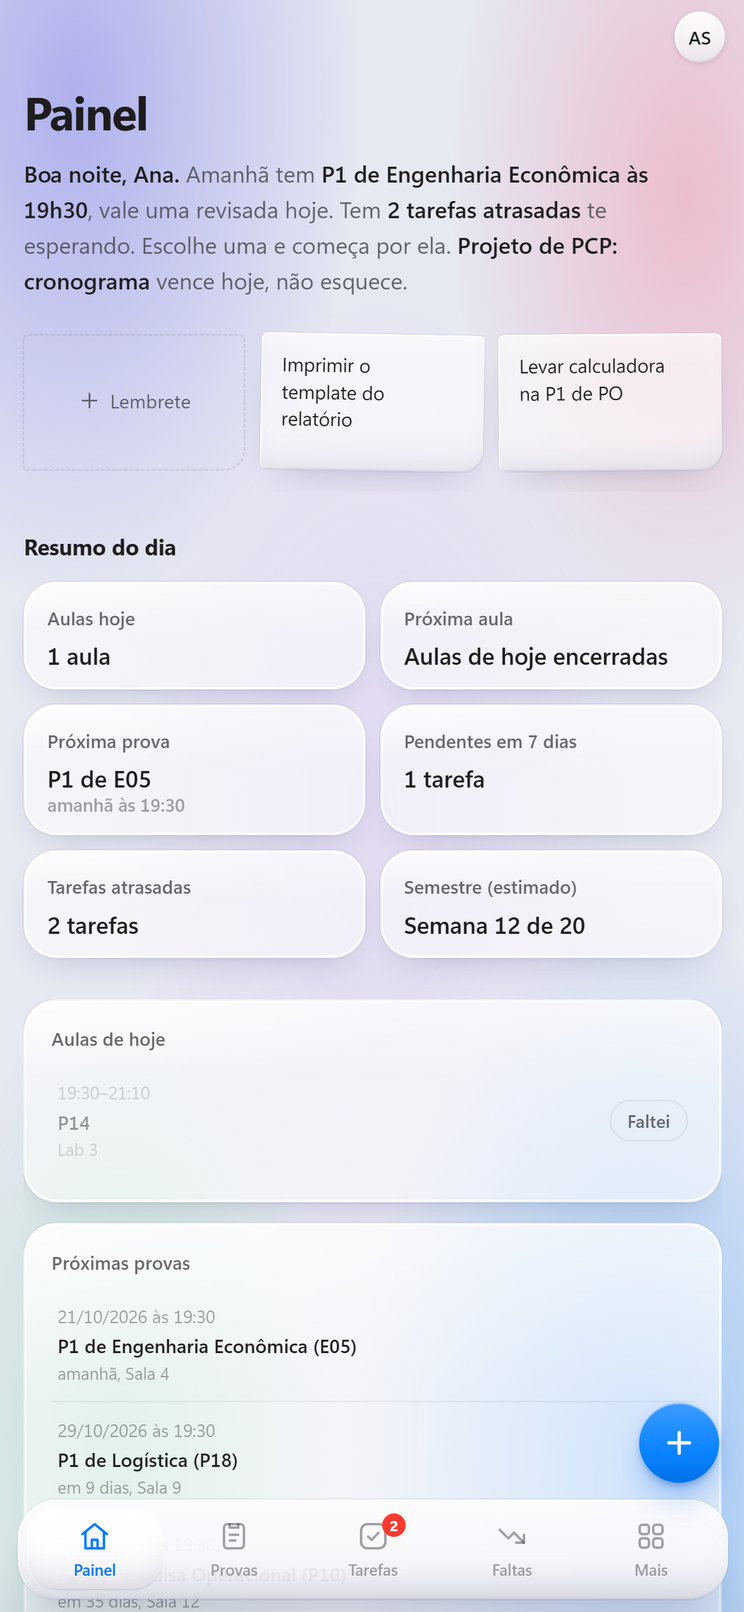
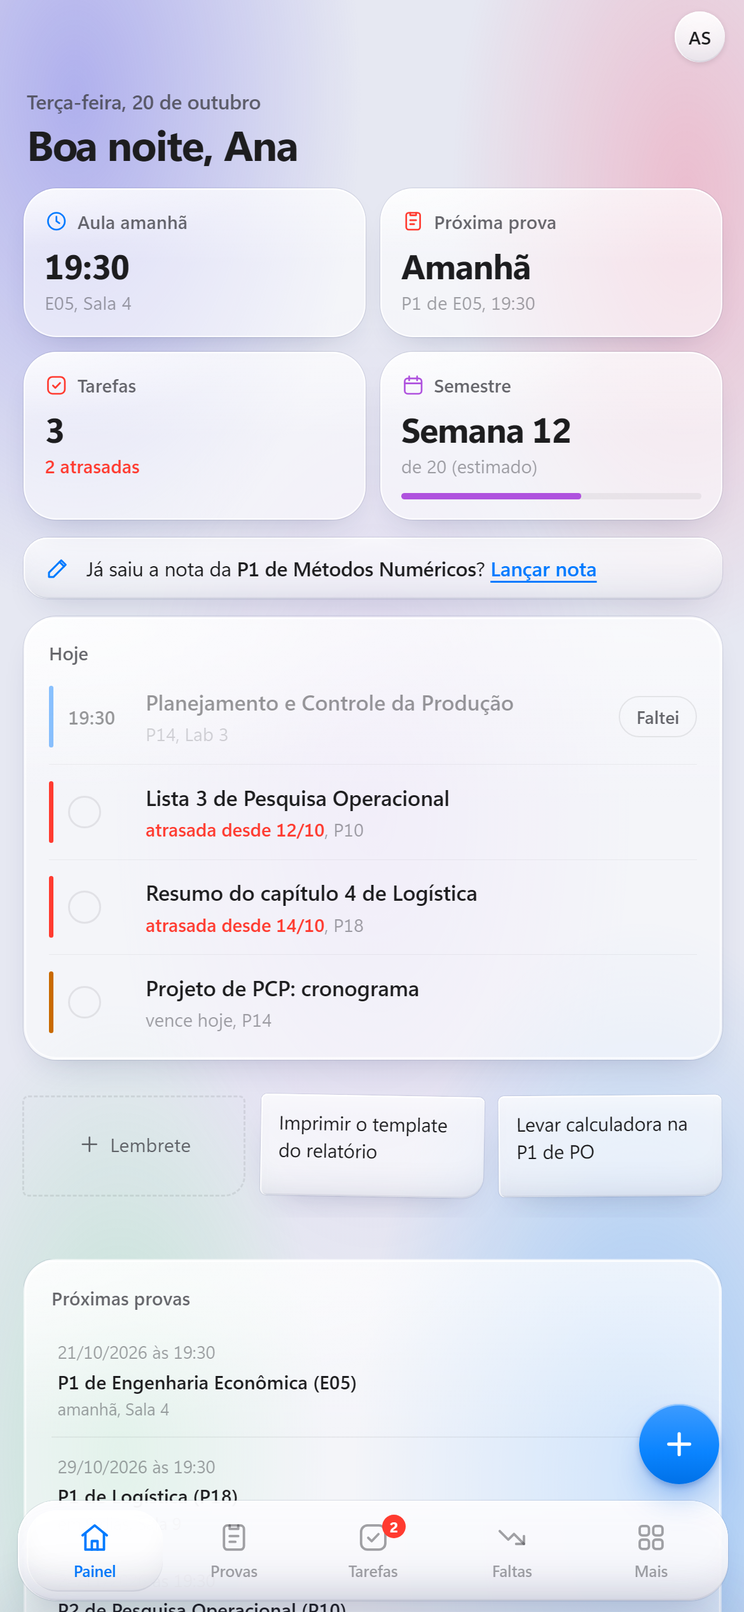
Phone dashboard: everything that matters on the first screen
On phones the dashboard now opens with the date and a greeting, four
shortcut tiles (next class, next exam, tasks, week of the semester), the
alerts, and a single Hoje list with today's classes (with Faltei),
exams and overdue or due-today tasks. The desktop dashboard is unchanged.

diff --git a/index.html b/index.html
@@ -1746,6 +1746,7 @@
   .day-overview b{color:var(--text); font-weight:600;}
   .day-overview__hi{color:var(--text); font-weight:600;}
   .day-overview__nota{display:block; margin-top:8px;}
+  .pc{display:none;}
   /* notificações: estado no topo, "quando" em cartões, atalho da agenda */
   .notif-top{display:flex; align-items:center; gap:14px; flex-wrap:wrap;}
   .notif-top__ic{width:42px; height:42px; border-radius:12px; display:grid; place-items:center; flex-shrink:0; color:var(--c); background:var(--c-dim);}
@@ -2551,6 +2552,53 @@
     .stat__value{font-size:26px;}
     .stat__value.small{font-size:16px;}
 
+    /* painel do celular: a data e o "oi", quatro atalhos, os avisos e o dia de hoje logo na primeira tela */
+    #tab-painel .painel-top .screen__header, #dayOverview, #tab-painel .so-desk{display:none !important;}
+    .pc{display:flex; flex-direction:column; gap:12px;}
+    .pc-head{display:flex; flex-direction:column; gap:2px; padding:0 2px 2px;}
+    .pc-data{font-size:13.5px; font-weight:500; color:var(--text-dim);}
+    .pc-oi{margin:0; font-size:28px; font-weight:700; letter-spacing:-.025em; line-height:1.15; color:var(--text); text-wrap:balance;}
+    .pc-ws{display:grid; grid-template-columns:repeat(2, minmax(0, 1fr)); gap:10px;}
+    .pc .pc-w{display:flex; flex-direction:column; align-items:flex-start; min-width:0; margin:0; padding:13px 14px 14px !important;
+      border:none; font:inherit; color:var(--text); text-align:left; cursor:pointer;}
+    .pc div.pc-w{cursor:default;}
+    .pc button.pc-w:active{transform:scale(.97);}
+    .pc-w__top{display:flex; align-items:center; gap:6px; max-width:100%; margin-bottom:7px; font-size:12.5px; font-weight:500; color:var(--text-dim);}
+    .pc-w__top .i{width:16px; height:16px; flex-shrink:0; color:var(--accent);}
+    .pc-w__top span, .pc-w__v, .pc-w__s{max-width:100%; white-space:nowrap; overflow:hidden; text-overflow:ellipsis;}
+    .pc-w__v{font-size:23px; font-weight:650; letter-spacing:-.02em; line-height:1.15; font-variant-numeric:tabular-nums;}
+    .pc-w__txt{display:block; font-size:16px; line-height:1.3; white-space:normal;}
+    .pc-w__s{margin-top:2px; font-size:12.5px; color:var(--text-faint);}
+    .pc-w__bar{display:block; width:100%; height:4px; margin-top:9px; border-radius:2px; background:var(--line-soft); overflow:hidden;}
+    .pc-w__bar > span{display:block; height:100%; border-radius:2px; background:var(--accent);}
+    .pc-alerta{color:var(--red); font-weight:600;}
+    .pc-avisos{display:flex; flex-direction:column; gap:8px;}
+    .pc-avisos:empty{display:none;}
+    .pc-aviso{display:flex; align-items:center; gap:10px; width:100%; margin:0; padding:11px 14px; border:none; border-radius:16px;
+      background:var(--lg-fill); box-shadow:var(--lg-drop), var(--lg-inner); font:inherit; font-size:13.5px; line-height:1.4; color:var(--text); text-align:left;}
+    button.pc-aviso{cursor:pointer;}
+    button.pc-aviso:active{transform:scale(.98);}
+    .pc-aviso > .i{width:18px; height:18px; flex-shrink:0; color:var(--accent);}
+    .pc-aviso > span{flex:1; min-width:0;}
+    .pc-aviso b{font-weight:600;}
+    .pc-hoje{padding:14px 16px 6px !important;}
+    .pc-hoje > .stat__label{margin-bottom:2px;}
+    .pc-item{display:flex; align-items:center; gap:10px; padding:11px 0; border-bottom:.5px solid var(--line-soft);}
+    .pc-item:last-child{border-bottom:none;}
+    .pc-item__bar{align-self:stretch; flex:0 0 3px; border-radius:2px; background:var(--accent);}
+    .pc-item__hora{flex:0 0 42px; display:flex; align-items:center; font-size:13px; font-weight:600; color:var(--text); font-variant-numeric:tabular-nums;}
+    .pc-item__hora .i{width:18px; height:18px; color:var(--accent);}
+    .pc-item__info{flex:1; min-width:0; display:flex; flex-direction:column; gap:1px;}
+    .pc-item__info .t{font-size:14.5px; font-weight:600; color:var(--text); white-space:nowrap; overflow:hidden; text-overflow:ellipsis;}
+    .pc-item__info .s{font-size:12.5px; color:var(--text-faint); white-space:nowrap; overflow:hidden; text-overflow:ellipsis;}
+    .pc-item.is-past .pc-item__bar, .pc-item.is-past .pc-item__hora, .pc-item.is-past .pc-item__info{opacity:.45;}
+    .pc-check{display:block; width:22px; height:22px; border-radius:50%; border:1.5px solid var(--line); cursor:pointer;}
+    .pc-check:active{background:var(--green-dim); border-color:var(--green);}
+    .pc-mais{display:block; margin:2px 0 10px 55px; font-size:13px;}
+    .pc-vazio{padding:10px 0 12px; font-size:13.5px; color:var(--text-faint);}
+    /* lembretes: mais baixos, logo abaixo do dia de hoje */
+    .postits .postit{min-height:68px; padding:10px 12px 12px;}
+
     /* calendário de provas: número no meio, sem caixa; feriado, evento e prova viram pontos */
     .cal-grid{gap:2px 0;}
     .cal-dow{font-size:10.5px; letter-spacing:.04em; padding:0 0 6px;}
@@ -2848,6 +2896,19 @@
 
     <!-- PAINEL -->
     <section class="tab active" id="tab-painel">
+      <!-- celular: a data, quatro atalhos, os avisos e o dia de hoje (no computador, o painel de sempre) -->
+      <div class="pc" id="painelCel">
+        <div class="pc-head">
+          <div class="pc-data" id="pcData"></div>
+          <h2 class="pc-oi" id="pcOi">Painel</h2>
+        </div>
+        <div class="pc-ws" id="pcWidgets"></div>
+        <div class="pc-avisos" id="pcAvisos"></div>
+        <div class="panel panel--pad pc-hoje" style="--accent:var(--blue)">
+          <div class="stat__label">Hoje</div>
+          <div id="pcHoje"></div>
+        </div>
+      </div>
       <div class="painel-top">
         <div class="painel-top__main">
           <div class="screen__header">
@@ -2859,11 +2920,11 @@
         <div class="postits" id="lembretesList" aria-label="Lembretes"></div>
       </div>
 
-      <div class="section-label">Resumo do dia</div>
-      <div class="stat-grid" id="resumoStats"></div>
+      <div class="section-label so-desk">Resumo do dia</div>
+      <div class="stat-grid so-desk" id="resumoStats"></div>
 
       <div class="grid-3" style="margin-top:28px;">
-        <div class="panel panel--pad" style="--accent:var(--blue)">
+        <div class="panel panel--pad so-desk" style="--accent:var(--blue)">
           <div class="stat__label" style="margin-bottom:8px;">Aulas de hoje</div>
           <div class="row-list" id="aulasHojeList"></div>
         </div>
@@ -4599,9 +4660,7 @@ function renderPainel(){
     // "Faltei": registra a falta da aula na disciplina, um toque de novo desfaz
     const sigla = aulaSigla(a);
     const reg = sigla ? faltaDaAula(hojeIso, a.inicio, sigla) : null;
-    const chip = !sigla ? '' : `<button type="button" class="falta-chip${reg ? ' is-on' : ''}" data-faltei="${esc(a.inicio)}|${esc(sigla)}|${esc(a.fim || '')}"
-      aria-pressed="${!!reg}" aria-label="${reg ? `Falta registrada em ${esc(sigla)}, toque para desfazer` : `Registrar falta em ${esc(sigla)}`}"
-      title="${reg ? `${reg.n === 1 ? '1 falta registrada' : reg.n + ' faltas registradas'}. Toque para desfazer` : `Registrar falta em ${esc(sigla)}`}">${reg ? 'Faltou' : 'Faltei'}</button>`;
+    const chip = sigla ? chipFaltei(a, sigla, reg) : '';
     return `<div class="row-item ${state}">
       <div class="time mono">${esc(a.inicio)}–${esc(a.fim)}</div>
       <div class="info"><div class="t">${esc(a.disciplina)}</div><div class="s">${esc(a.local)}</div></div>
@@ -4664,6 +4723,7 @@ function renderPainel(){
       <span class="badge badge-${stCls}">${esc(t.status)}</span>
     </div>`;
   }).join('') : `<div class="empty" style="padding:14px;">Nenhuma tarefa pendente</div>`;
+  renderPainelCel(aulasHoje, semAulaHoje, discReprovando);
 
   document.querySelectorAll('[data-dash-done]').forEach(el => {
     const fn = async (e) => {
@@ -4782,42 +4842,156 @@ function renderDayOverview(){
     frases.push(`O <b>${esc(r.nome)}</b> do laboratório entrega ${d === 0 ? 'hoje' : d === 1 ? 'amanhã' : 'depois de amanhã'}.`);
   }
 
-  // calendário acadêmico: sem aula amanhã (quando teria aula) e a próxima data do semestre
-  const amanhaD = calSoma(now, 1), temAulaNoDia = dia => getAulas().some(a => a.dia === dia && a.inicio && a.inicio !== '—');
-  const semAulaAmanha = calSemAula(localISO(amanhaD));
-  if(semAulaAmanha && temAulaNoDia(DAY_NAMES[amanhaD.getDay()])) frases.push(`Amanhã não tem aula: <b>${esc(semAulaAmanha)}</b>.`);
-  // (feriado nacional e dia sem aula de um dia só já entram em "amanhã não tem aula")
-  const ev = calProximos(7).find(e => !e.nacional && (e.tipo !== 'feriado' || (e.ate && e.ate !== e.de)));
-  if(ev){
-    const d = daysUntil(ev.de), fimEv = ev.ate && ev.ate !== ev.de ? ev.ate : '';
-    frases.push(d > 0 ? (fimEv ? `<b>${esc(ev.nome)}</b> começa ${diasLabel(d)}.` : d === 1 ? `Amanhã: <b>${esc(ev.nome)}</b>.` : `<b>${esc(ev.nome)}</b> ${diasLabel(d)}.`)
-      : fimEv && daysUntil(fimEv) > 0 ? `<b>${esc(ev.nome)}</b>: até ${fmtCurta(fimEv)}.`
-      : fimEv ? `<b>${esc(ev.nome)}</b>: hoje é o último dia.` : `Hoje: <b>${esc(ev.nome)}</b>.`);
-  }
+  frases.push(...calAvisos(now));
   if(!frases.length){
     const prox = upcomingProvas().find(p => daysUntil(p.data) > 1);
     frases.push(prox && daysUntil(prox.data) <= 7
       ? `Nada urgente por hoje. A próxima prova é <b>${prova(prox)}</b> ${diasLabel(daysUntil(prox.data))}, dá tempo de se organizar com calma.`
       : 'Nenhuma prova ou prazo à vista hoje. Aproveite o dia.');
   }
-  // nota que já deve ter saído (prova de 3 a 21 dias atrás): vem por último, sem tirar lugar dos prazos
-  const pNota = provasSemNota().find(p => daysUntil(p.data) <= -3 && daysUntil(p.data) >= -21);
-  // provas acabaram: primeiro pede as notas que faltam; com elas lançadas, sugere encerrar o semestre
-  const nudge = pNota && frases.length < 3 ? `<span class="day-overview__nota">Já saiu a nota da <b>${esc(pNota.tipo)} de ${esc(disc(pNota))}</b>? <button type="button" class="link-btn" data-lancar-nota="${esc(pNota.id)}">Lançar nota</button></span>`
-    : !pNota && semestreParaEncerrar() ? `<span class="day-overview__nota">Parece que o semestre acabou. <button type="button" class="link-btn" data-encerrar-sem>Encerrar semestre</button> <span class="dim">ou</span> <button type="button" class="link-btn" data-sem-depois>agora não</button></span>`
-    : '';
-  el.innerHTML = `<span class="day-overview__hi">${saud}${nome ? ', ' + esc(nome) : ''}.</span> ${frases.slice(0,3).join(' ')}${nudge}`;
+  // a nota que já deve ter saído vem por último, sem tirar lugar dos prazos
+  const nudge = painelNudge(frases.length < 3);
+  el.innerHTML = `<span class="day-overview__hi">${saud}${nome ? ', ' + esc(nome) : ''}.</span> ${frases.slice(0,3).join(' ')}${nudge ? `<span class="day-overview__nota">${nudge.html}</span>` : ''}`;
 }
-document.getElementById('dayOverview').addEventListener('click', e => {
+// calendário acadêmico: sem aula amanhã (quando teria aula) e a próxima data do semestre, em frases
+function calAvisos(now){
+  const out = [];
+  const amanhaD = calSoma(now, 1), temAulaNoDia = dia => getAulas().some(a => a.dia === dia && a.inicio && a.inicio !== '—');
+  const semAulaAmanha = calSemAula(localISO(amanhaD));
+  if(semAulaAmanha && temAulaNoDia(DAY_NAMES[amanhaD.getDay()])) out.push(`Amanhã não tem aula: <b>${esc(semAulaAmanha)}</b>.`);
+  // (feriado nacional e dia sem aula de um dia só já entram em "amanhã não tem aula")
+  const ev = calProximos(7).find(e => !e.nacional && (e.tipo !== 'feriado' || (e.ate && e.ate !== e.de)));
+  if(ev){
+    const d = daysUntil(ev.de), fimEv = ev.ate && ev.ate !== ev.de ? ev.ate : '';
+    out.push(d > 0 ? (fimEv ? `<b>${esc(ev.nome)}</b> começa ${diasLabel(d)}.` : d === 1 ? `Amanhã: <b>${esc(ev.nome)}</b>.` : `<b>${esc(ev.nome)}</b> ${diasLabel(d)}.`)
+      : fimEv && daysUntil(fimEv) > 0 ? `<b>${esc(ev.nome)}</b>: até ${fmtCurta(fimEv)}.`
+      : fimEv ? `<b>${esc(ev.nome)}</b>: hoje é o último dia.` : `Hoje: <b>${esc(ev.nome)}</b>.`);
+  }
+  return out;
+}
+// provas acabaram: primeiro pede a nota que já deve ter saído (prova de 3 a 21 dias atrás); com as notas
+// lançadas, sugere encerrar o semestre. comNota = false: há frases demais e o pedido de nota fica para depois
+function painelNudge(comNota){
+  const disc = p => String(p.disciplina || '').replace(/\s*\([^)]*\)\s*$/, '');
+  const pNota = provasSemNota().find(p => daysUntil(p.data) <= -3 && daysUntil(p.data) >= -21);
+  if(pNota) return comNota ? {icone: 'edit', html: `Já saiu a nota da <b>${esc(pNota.tipo)} de ${esc(disc(pNota))}</b>? <button type="button" class="link-btn" data-lancar-nota="${esc(pNota.id)}">Lançar nota</button>`} : null;
+  if(semestreParaEncerrar()) return {icone: 'cap', html: `Parece que o semestre acabou. <button type="button" class="link-btn" data-encerrar-sem>Encerrar semestre</button> <span class="dim">ou</span> <button type="button" class="link-btn" data-sem-depois>agora não</button>`};
+  return null;
+}
+function painelAcoes(e){
   const b = e.target.closest('[data-lancar-nota]');
   if(b) abrirLancarNota(b.dataset.lancarNota);
   if(e.target.closest('[data-encerrar-sem]')) abrirFimSemestre();
   // "agora não": o aviso volta em duas semanas
   if(e.target.closest('[data-sem-depois]')){
     lsSet('notif_last_sem_' + (ACTIVE_PROFILE_ID || 'default'), localISO(new Date(Date.now() + 14 * 86400000)));
-    renderDayOverview();
+    renderPainel();
   }
+}
+document.getElementById('dayOverview').addEventListener('click', painelAcoes);
+document.getElementById('pcAvisos').addEventListener('click', painelAcoes);
+// atalhos do painel do celular: cada um abre a sua aba
+document.getElementById('painelCel').addEventListener('click', e => {
+  const ir = e.target.closest('[data-ir]');
+  if(ir) switchTab(ir.dataset.ir);
 });
+
+// ---------------- Painel no celular ----------------
+// a próxima aula: a de agora, a de mais tarde ou a dos próximos dias (pulando os dias sem aula)
+function proximaAula(){
+  const aulas = getAulas().filter(a => a.dia && a.inicio && a.inicio !== '—');
+  if(!aulas.length) return null;
+  const agora = new Date(), hm = nowHHMM(), per = calPeriodo();
+  for(let i = 0; i < 8; i++){
+    const d = calSoma(agora, i), iso = localISO(d), dia = DAY_NAMES[d.getDay()];
+    if(calSemAula(iso) || (!per.estimado && (iso < per.inicio || iso > per.fim))) continue;
+    const a = aulas.filter(x => x.dia === dia && (i > 0 || (x.fim || x.inicio) > hm)).sort((x, y) => x.inicio.localeCompare(y.inicio))[0];
+    if(a) return {a, dias: i, dia, agora: i === 0 && a.inicio <= hm};
+  }
+  return null;
+}
+// botão "Faltei" de uma aula de hoje: registra a falta na disciplina, um toque de novo desfaz
+function chipFaltei(a, sigla, reg){
+  return `<button type="button" class="falta-chip${reg ? ' is-on' : ''}" data-faltei="${esc(a.inicio)}|${esc(sigla)}|${esc(a.fim || '')}"
+      aria-pressed="${!!reg}" aria-label="${reg ? `Falta registrada em ${esc(sigla)}, toque para desfazer` : `Registrar falta em ${esc(sigla)}`}"
+      title="${reg ? `${reg.n === 1 ? '1 falta registrada' : reg.n + ' faltas registradas'}. Toque para desfazer` : `Registrar falta em ${esc(sigla)}`}">${reg ? 'Faltou' : 'Faltei'}</button>`;
+}
+function renderPainelCel(aulasHoje, semAulaHoje, discReprovando){
+  if(!document.getElementById('painelCel')) return;
+  const now = new Date(), h = now.getHours(), hm = nowHHMM(), hojeIso = localISO(now);
+  const nome = String(STATE.config.aluno || '').trim().split(/\s+/)[0];
+  const data = now.toLocaleDateString('pt-BR', {weekday: 'long', day: 'numeric', month: 'long'});
+  document.getElementById('pcData').textContent = data.charAt(0).toUpperCase() + data.slice(1);
+  document.getElementById('pcOi').textContent = (h < 5 ? 'Boa noite' : h < 12 ? 'Bom dia' : h < 18 ? 'Boa tarde' : 'Boa noite') + (nome ? ', ' + nome : '');
+  const nomeDisc = s => s && (STATE.historico.find(i => i.sigla === s) || {}).disciplina;
+  const local = x => x.local && x.local !== '—' ? x.local : '';
+  const junta = (...xs) => xs.filter(Boolean).join(', ');
+
+  // os quatro atalhos (o do semestre só mostra)
+  const w = (aba, cor, icone, rotulo, valor, sub, extra = '') => {
+    const tag = aba ? 'button' : 'div';
+    return `<${tag}${aba ? ` type="button" data-ir="${aba}"` : ''} class="panel stat pc-w" style="--accent:var(--${cor})">
+      <span class="pc-w__top">${ico(icone)}<span>${rotulo}</span></span>
+      <span class="pc-w__v">${valor}</span>${sub ? `<span class="pc-w__s">${sub}</span>` : ''}${extra}</${tag}>`;
+  };
+  const pa = proximaAula(), temHorario = getAulas().some(a => a.inicio && a.inicio !== '—');
+  const naDia = d => (d === 'Sábado' || d === 'Domingo' ? 'no ' : 'na ') + d.toLowerCase();
+  const wAula = !pa ? w('horario', 'blue', 'clock', 'Próxima aula', temHorario ? 'Nenhuma' : 'Sem horário', temHorario ? 'nos próximos dias' : 'toque para montar')
+    : pa.agora ? w('horario', 'blue', 'clock', 'Aula agora', esc(pa.a.disciplina), esc(junta(pa.a.fim && 'até ' + pa.a.fim, local(pa.a))))
+    : w('horario', 'blue', 'clock', pa.dias === 0 ? 'Próxima aula' : pa.dias === 1 ? 'Aula amanhã' : 'Aula ' + naDia(pa.dia), esc(pa.a.inicio), esc(junta(pa.a.disciplina, local(pa.a))));
+  const pp = upcomingProvas(1)[0], nP = pp ? daysUntil(pp.data) : 0;
+  const sig = d => (String(d || '').match(/\(([^)]+)\)\s*$/) || [])[1] || d;
+  const wProva = !pp ? w('provas', 'blue', 'exam', 'Próxima prova', 'Nenhuma', 'marcada')
+    : w('provas', nP <= 1 ? 'red' : 'blue', 'exam', 'Próxima prova', nP === 0 ? 'Hoje' : nP === 1 ? 'Amanhã' : `${nP} dias`, esc(junta(`${pp.tipo} de ${sig(pp.disciplina)}`, pp.hora)));
+  const abertas = STATE.tarefas.filter(t => t.status !== 'Concluído' && t.prazo);
+  const atras = abertas.filter(t => daysUntil(t.prazo) < 0).length, deHoje = abertas.filter(t => daysUntil(t.prazo) === 0).length;
+  const semana = abertas.filter(t => daysUntil(t.prazo) >= 0 && daysUntil(t.prazo) <= 7).length;
+  const wTarefas = w('tarefas', atras ? 'red' : semana ? 'amber' : 'green', 'check', 'Tarefas', atras + semana ? String(atras + semana) : 'Em dia',
+    atras ? `<span class="pc-alerta">${atras} ${atras === 1 ? 'atrasada' : 'atrasadas'}</span>` : deHoje ? `${deHoje} para hoje` : semana ? 'para esta semana' : 'nada para esta semana');
+  const pr = calProgresso();
+  const wSem = pr.semana
+    ? w('', 'purple', 'calendar', 'Semestre', `Semana ${pr.semana}`, `de ${pr.total}${calPeriodo().estimado ? ' (estimado)' : ''}`,
+      `<span class="pc-w__bar"><span style="width:${Math.round(pr.semana / pr.total * 100)}%"></span></span>`)
+    : w('', 'purple', 'calendar', 'Semestre', `<span class="pc-w__txt">${esc(pr.txt)}</span>`, '');
+  document.getElementById('pcWidgets').innerHTML = wAula + wProva + wTarefas + wSem;
+
+  // avisos: faltas e notas em risco, o calendário dos próximos dias e o pedido de nota (ou de encerrar o semestre)
+  const avisos = [];
+  const aviso = (aba, cor, icone, html) => avisos.push(`<${aba ? `button type="button" data-ir="${aba}"` : 'div'} class="pc-aviso" style="--accent:var(--${cor})">${ico(icone)}<span>${html}</span></${aba ? 'button' : 'div'}>`);
+  const risco = countDisciplinasEmRisco();
+  if(risco) aviso('faltas', 'red', 'alert', `${risco} ${risco === 1 ? 'disciplina perto' : 'disciplinas perto'} do limite de faltas`);
+  if(discReprovando) aviso('desempenho', 'red', 'alert', `Reprovando em notas: ${discReprovando} ${discReprovando === 1 ? 'disciplina' : 'disciplinas'}`);
+  calAvisos(now).forEach(f => aviso('', 'purple', 'calendar', f));
+  const nudge = painelNudge(true);
+  if(nudge) aviso('', 'blue', nudge.icone, nudge.html);
+  document.getElementById('pcAvisos').innerHTML = avisos.join('');
+
+  // hoje: provas e aulas pela hora, depois as tarefas atrasadas ou de hoje e os relatórios que entregam hoje
+  const item = (cor, hora, t, s, fim = '', cls = '') => `<div class="pc-item${cls}" style="--accent:var(--${cor})"><span class="pc-item__bar"></span><span class="pc-item__hora">${hora}</span>
+      <span class="pc-item__info"><span class="t">${t}</span>${s ? `<span class="s">${s}</span>` : ''}</span>${fim}</div>`;
+  const porHora = [];
+  STATE.provas.filter(p => p.data === hojeIso).forEach(p => porHora.push({ord: p.hora || '', html:
+    item('red', esc(p.hora || 'Hoje'), esc(examLabel(p)), esc(local(p)), '', provaPendente(p) ? '' : ' is-past')}));
+  aulasHoje.forEach(a => {
+    const sigla = aulaSigla(a), reg = sigla ? faltaDaAula(hojeIso, a.inicio, sigla) : null;
+    const passou = !!a.fim && a.fim <= hm, agora = !passou && a.inicio <= hm, nomeA = nomeDisc(sigla);
+    porHora.push({ord: a.inicio, html: item('blue', esc(a.inicio), esc(nomeA || a.disciplina), esc(junta(nomeA ? sigla : '', local(a))),
+      `<span class="row-end">${agora ? '<span class="badge badge-amber">agora</span>' : ''}${sigla ? chipFaltei(a, sigla, reg) : ''}</span>`, passou ? ' is-past' : '')});
+  });
+  const tarefas = STATE.tarefas.filter(t => t.status !== 'Concluído' && t.prazo && daysUntil(t.prazo) <= 0).sort((a, b) => a.prazo.localeCompare(b.prazo));
+  const TMAX = 4, maisT = tarefas.length - TMAX;
+  const linhas = tarefas.slice(0, TMAX).map(t => {
+    const atrasada = daysUntil(t.prazo) < 0;
+    return item(atrasada ? 'red' : 'amber', `<span class="pc-check" data-dash-done="${esc(t.id)}" role="button" tabindex="0" aria-label="Concluir ${esc(t.nome)}"></span>`,
+      esc(t.nome), junta(atrasada ? `<span class="pc-alerta">atrasada desde ${fmtCurta(t.prazo)}</span>` : 'vence hoje', esc(t.disciplina)));
+  });
+  relatoriosAbertos().filter(r => daysUntil(r.fim) === 0).forEach(r => linhas.push(item('purple', ico('flask'), esc(r.nome), 'relatório, entrega hoje')));
+  const corpo = porHora.sort((a, b) => a.ord.localeCompare(b.ord)).map(x => x.html).join('') + linhas.join('')
+    + (maisT > 0 ? `<button type="button" class="link-btn pc-mais" data-ir="tarefas">e mais ${maisT} ${maisT === 1 ? 'tarefa' : 'tarefas'}</button>` : '');
+  const semAula = semAulaHoje ? `<div class="pc-vazio">Sem aula hoje: ${esc(semAulaHoje)}</div>` : '';
+  document.getElementById('pcHoje').innerHTML = semAula + corpo || (semAula || '<div class="pc-vazio">Nada marcado para hoje</div>');
+  document.querySelectorAll('#pcHoje [data-faltei]').forEach(b => b.addEventListener('click', () => alternarFalta(b.dataset.faltei)));
+}
 
 // último número mostrado em cada card: o painel se redesenha a cada minuto e não deve recontar do zero
 const _countShown = {};
@@ -11834,10 +12008,11 @@ document.getElementById('modalAjuda').addEventListener('click', e => { if(e.targ
 const TOUR = [
   {titulo: 'Bem-vindo ao Centro de Controle', texto: 'Um minuto pelas partes principais. Dá para refazer quando quiser, na Ajuda.'},
   {aba: 'painel', alvo: '#navRail', alvoCel: '#mobileTabbar', titulo: 'As abas', texto: 'Cada parte do curso tem a sua aba.', textoCel: 'Cada parte do curso tem a sua aba. As outras ficam em Mais.'},
-  {aba: 'painel', alvo: '#resumoStats', titulo: 'Resumo do dia', texto: 'Aulas de hoje, próxima aula, próxima prova e os prazos da semana.'},
+  {aba: 'painel', alvo: '#resumoStats', alvoCel: '#pcWidgets', titulo: 'Resumo do dia', texto: 'Aulas de hoje, próxima aula, próxima prova e os prazos da semana.',
+    textoCel: 'Próxima aula, próxima prova, tarefas e a semana do semestre. Toque num deles para abrir a aba.'},
   {alvo: '#railQuickAdd', alvoCel: '#mobileFab', titulo: 'Novo item', texto: 'Adicione uma tarefa ou uma prova de qualquer tela. Atalho: Ctrl K.', textoCel: 'Adicione uma tarefa ou uma prova de qualquer tela.',
     textoSem: 'Para adicionar uma tarefa ou uma prova de qualquer tela, aperte Ctrl K.'},
-  {aba: 'painel', alvo: '#aulasHojeList', painel: true, titulo: 'Faltei', texto: 'Faltou numa aula de hoje? Toque em Faltei e a falta já conta na disciplina.'},
+  {aba: 'painel', alvo: '#aulasHojeList', alvoCel: '#pcHoje', painel: true, titulo: 'Faltei', texto: 'Faltou numa aula de hoje? Toque em Faltei e a falta já conta na disciplina.'},
   {aba: 'provas', alvo: '#calGrid', painel: true, titulo: 'Calendário de provas', texto: 'Toque num dia para marcar uma prova. Depois dela, lance a nota ali mesmo.'},
   {aba: 'desempenho', alvo: '#notasSemestreGrid', titulo: 'Notas', texto: 'Escreva a nota e o peso de cada avaliação: a média e quanto falta para passar saem sozinhas.'},
   {aba: 'horario', alvo: '#btnMontarGrade', titulo: 'Horário', texto: 'Monte o horário pelo PDF de horários da faculdade, escolhendo as turmas sem choque.'},

diff --git a/tests/navegador/testes/ajustes.js b/tests/navegador/testes/ajustes.js
@@ -84,6 +84,20 @@ setTimeout(async () => {
     r.resumo = cards.map(txt);
     confere(!r.resumo.some(t => /Sequência/.test(t)), 'o card da sequência de estudos ainda aparece');
     confere(cards.every(c => c.querySelector('.stat__value.small')) && /^Aulas hoje (\d+ aulas?|Nenhuma)$/.test(r.resumo[0]), 'os números do resumo não estão no mesmo tamanho dos outros valores');
+    // celular: a data, os quatro atalhos e a lista de hoje já na primeira tela; no computador, o painel de sempre
+    const vis = el => !!el && el.getClientRects().length > 0;
+    window.scrollTo(0, 0); await espera(50);
+    const hoje = document.getElementById('pcHoje').closest('.panel');
+    r.cel = {visivel: vis(document.getElementById('painelCel')), resumo: vis(document.getElementById('resumoStats')), atalhos: document.querySelectorAll('#pcWidgets .pc-w').length,
+      hojeTopo: Math.round(hoje.getBoundingClientRect().top), tela: innerHeight, oi: txt(document.getElementById('pcOi'))};
+    if(celular){
+      confere(r.cel.visivel && !r.cel.resumo && r.cel.atalhos === 4, 'o painel do celular não trocou o resumo pelos quatro atalhos');
+      confere(r.cel.hojeTopo < r.cel.tela - 200, 'a lista de hoje não aparece na primeira tela do celular');
+      confere(/^(Bom dia|Boa tarde|Boa noite)/.test(r.cel.oi), 'o painel do celular não começa com a saudação');
+      document.querySelector('#pcWidgets [data-ir="provas"]').click(); await espera(100);
+      r.cel.abriu = currentTabId(); switchTab('painel'); await espera(50);
+      confere(r.cel.abriu === 'provas', 'o atalho da próxima prova não abriu a aba Provas');
+    } else confere(!r.cel.visivel && r.cel.resumo, 'o painel do celular aparece no computador');
     return r;
   });
 

diff --git a/README.md b/README.md
@@ -38,6 +38,7 @@ Para publicar na Microsoft Store (gratuito para pessoa física), o passo a passo
 **Painel**
 - Um recado curto do dia: provas de hoje e amanhã, tarefas atrasadas ou vencendo, relatórios perto do prazo e a nota de prova que já deve ter saído
 - Resumo do dia: aulas, próxima aula, próxima prova e prazos da semana
+- No celular, tudo o que importa já na primeira tela, sem rolar: a data e a saudação, quatro atalhos (próxima aula, próxima prova, tarefas e a semana do semestre, cada um abrindo a sua aba), os avisos (faltas, notas, calendário, nota que já deve ter saído) e o dia de hoje numa lista só, com as aulas (e o **Faltei**), as provas e as tarefas atrasadas ou do dia, que se concluem com um toque
 - Próximas provas com data, horário e sala; relatórios do laboratório e tarefas com prazo em aberto, por data
 - Agenda da semana em grade, juntando aulas, provas, entregas e tarefas (no dia de uma prova, a aula da disciplina dá lugar a ela)
 - Post-its de lembrete fixados no topo
